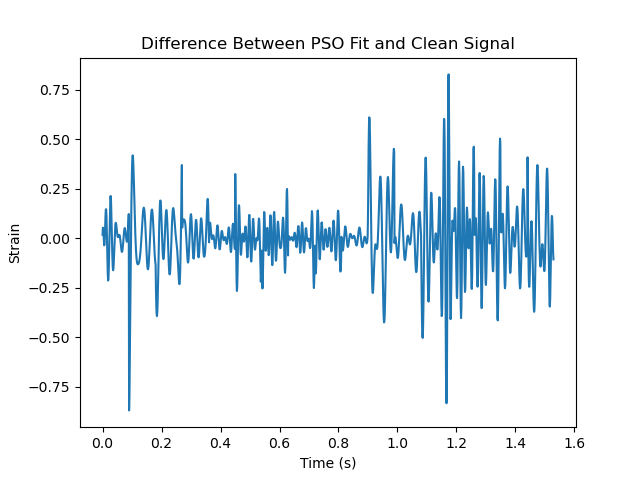
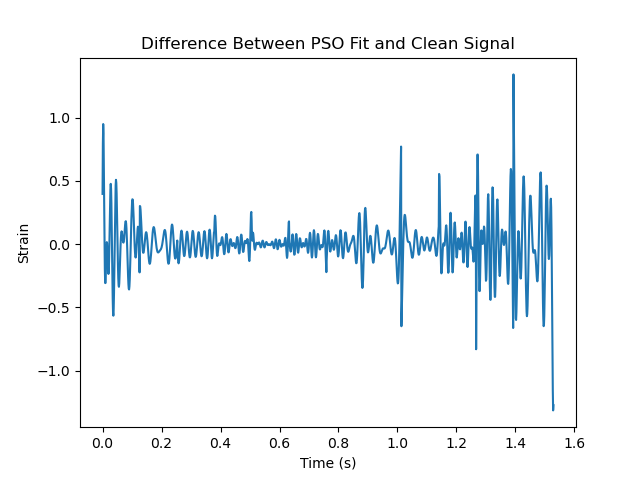
Added seed ID and more tests to diagnose last segment issues

diff --git a/pso/PSOBestFit.py b/pso/PSOBestFit.py
@@ -30,6 +30,16 @@ def leastSquaresFit(t, data, model):
         fit = fit + ls[i]
     return fit
 
+def rootCheck(t, a, b, c):
+    sqrtArg = (2*b)**2 - 4*3*a*c
+    if sqrtArg < 0:
+        return False
+    root1 = (-2*b + np.sqrt(sqrtArg)) / (2 * 3*a)
+    root2 = (-2*b - np.sqrt(sqrtArg)) / (2 * 3*a)
+    if t[0] < root1 < t[-1] or t[0] < root1 < t[-1]:
+        return True
+    return False
+
 # Simplifies polyCos fitting by substituting the to be maximized function with R
 def RSub(omegas, t, x):
     # INPUTS:
@@ -40,6 +50,11 @@ def RSub(omegas, t, x):
     # R:         Omega dependent function whose argmax is the same as least squares minimization
 
     w1, w2, w3 = omegas
+
+    isRoot = rootCheck(t, w1, w2, w3)
+
+    if isRoot:
+        return -999999
     A = sum(x*polyCos(t, 0, w1, w2, w3))
     B = -sum(x*polyCos(t, -np.pi/2, w1, w2, w3))
     R = np.sqrt(A**2+B**2)
@@ -67,7 +82,7 @@ def PSOPolyCosFit(t, x, lbounds, ubounds):
     # INPUTS:
     # t:                 1D time array with Ts spacing
     # x:                 1D array of input data
-    # lbounds, ubounds:  Bounds for omega parameters
+    # lbounds, ubounds:  Length 3 arrays of omega parameter  bounds
     # OUTPUTS:
     # w1, w2, w3, R:     Best fit omegas and minimal R
 
@@ -80,7 +95,16 @@ def PSOPolyCosFit(t, x, lbounds, ubounds):
     w1, w2, w3 = pso.gbest_x; R = -pso.gbest_y # best fit omegas and minimal R
     return w1, w2, w3, R
 
+# calculates best fit phase and amplitude given w1, w2, and w3
 def parCalc(t, x, w1, w2, w3, R):
+    # INPUTS:
+    # t:                 1D time array with Ts spacing
+    # x:                 1D array of input data
+    # w1, w2, w3, R:     Best fit omegas and minimal R
+    # OUTPUTS:
+    # a:                 Amplitude
+    # p0:                Phase
+
     N = sum(polyCos(t, 0, w1, w2, w3)**2) # variables for amplitude and phase calculation
     A = sum(x*polyCos(t, 0, w1, w2, w3))
     B = -sum(x*polyCos(t, -np.pi/2, w1, w2, w3))
@@ -88,7 +112,14 @@ def parCalc(t, x, w1, w2, w3, R):
 
     return a, p0
 
+# checks if PSO fit hit the parameter bounds and needs to be expanded
 def boundCheck(w1, w2, w3, lbounds, ubounds):
+    # INPUTS:
+    # w1, w2, w3:        Best fit omegas
+    # lbounds, ubounds:  Length 3 arrays of omega parameter  bounds
+    # OUTPUTS:
+    # lbounds, ubounds:  Length 3 arrays of omega parameter  bounds
+
     if abs(w1) == abs(lbounds[0]):
         lbounds[0] = 1.5*lbounds[0]; ubounds[0] = 1.5*ubounds[0]
     if abs(w2) == abs(lbounds[1]):
@@ -139,4 +170,21 @@ def PSOMultirun(t, data, Nseg: int, lbounds, ubounds, runs, dynBound = True):
     tfit = leastSquaresFit(t, data, model)
     return model, tfit, isBadFit
 
+def PSOMR(tseg, xseg, runs, lbounds, ubounds, thresh = 0.1, dynBound = True):
+    isBadFit = True; bestFit = 0
+    for i in range(runs):
+        if i==0 or isBadFit:
+            w1, w2, w3, R = PSOPolyCosFit(tseg, xseg, lbounds, ubounds) # fits data to polyCos using PSO
+            a, p0 = parCalc(tseg, xseg, w1, w2, w3, R) # calculates min amplitude and phase based on omegas
 
+            if dynBound:
+                lbounds, ubounds = boundCheck(w1, w2, w3, lbounds, ubounds)
+
+            runSeg = a*polyCos(tseg, p0, w1, w2, w3) # generates model signal given previously calculated parameters
+            segFit = leastSquaresFit(tseg, xseg, runSeg) # finds the fit of that model against original data
+
+            if i==0 or segFit<bestFit:
+                bestFit = segFit
+                if segFit/len(runSeg) < thresh:
+                    isBadFit = False
+    return runSeg, isBadFit

diff --git a/pso/tests/seglen/segLenTrials.py b/pso/tests/seglen/segLenTrials.py
@@ -1,0 +1,86 @@
+import sys
+from pathlib import Path
+sys.path.append(str(Path(__file__).parent.parent.parent.parent))
+sys.path.append(str(Path(__file__).parent.parent.parent))
+from dsignal import freqGen as fg, sigGen as sg, sigAnalysis as sa
+import numpy as np
+import psoBestFit as pbf
+import matplotlib.pyplot as plt
+import time
+
+def genWL(f0, band, M, Ts, A):
+    freqKnots = fg.genKnot(M, f0, band) # knots for freq spline
+    t, freqs = fg.genBSpline(freqKnots, Ts) # generates time and freq spline arrays
+    cleanSig, distSig = sg.genSignal(t, freqs, A, Ts) # generates signal with smoothly varying frequency and iid noise
+
+    return t, cleanSig, distSig, freqs, freqKnots
+
+
+def PSOSegment(t, x, lbounds, ubounds, dynBound = True):
+    w1, w2, w3, R = pbf.PSOPolyCosFit(t, x, lbounds, ubounds) # fits data to polyCos using PSO
+    a, p0 = pbf.parCalc(t, x, w1, w2, w3, R) # calculates min amplitude and phase based on omegas
+
+    if dynBound:
+        lbounds, ubounds = pbf.boundCheck(w1, w2, w3, lbounds, ubounds)
+
+    runSeg = a*pbf.polyCos(t, p0, w1, w2, w3) # generates model signal given previously calculated parameters
+    segFit = pbf.leastSquaresFit(t, x, runSeg) # finds the fit of that model against original data
+    return runSeg, segFit, lbounds, ubounds
+
+def PSOMultiRun(t, data, lbounds, ubounds, runs):
+    bestFit = 0
+    for j in range(runs):
+        runSeg, segFit, lbounds, ubounds = PSOSegment(t, data, lbounds, ubounds)
+
+        if j==0 or segFit<bestFit:
+            bestFit = segFit
+    return bestFit
+
+def PSOMultLen(t, data, lbounds, ubounds, runs: int, tsegs):
+
+    start = time.perf_counter()
+    segTimes = np.zeros(len(tsegs)-1)
+    lsf = np.zeros(len(tsegs)-1)
+
+    for i in range(len(tsegs)-1):
+        segstart = time.perf_counter()
+        lt = np.where(t > tsegs[i])[0][0]; ut = np.where(t > tsegs[i+1])[0][0]
+        tseg = t[lt:ut]; xseg = data[lt:ut]
+
+        lsf[i] = PSOMultiRun(tseg, xseg, lbounds, ubounds, runs)
+
+        segend = time.perf_counter()
+        segTimes[i] = segend - segstart
+        segstart = segend
+
+    return lsf, segTimes
+
+f0 = 60; band = 30; A = 2; M = 100
+fmax = f0 + band; Ts = 1/(10*fmax)
+
+runs = 20; trials = 15
+
+tsegs = np.arange(0, 1.2, 0.1)
+newTS = np.zeros(shape=(trials, len(tsegs)-1))
+for i in range(trials):
+    newTS[i, :] = tsegs[1:]
+
+lsf = np.zeros(shape=(trials, len(tsegs)-1))
+segTimes = np.zeros(shape=(trials, len(tsegs)-1))
+t, cleanSig, distSig, freqs, freqKnots = genWL(f0, band, M, Ts, A)
+
+filename = 'ML_alltime'
+dir = 'pso\\tests\\seglen\\saved\\' + filename + '.png'
+sa.plotAllTime(t, cleanSig, distSig, freqs, freqKnots, Ts, fmax, dir)
+
+for i in range(trials):
+    print('Running trial' + str(i))
+    tsegs = tsegs + 0.9
+    flim = sa.FFTPeaks(t, cleanSig, Ts)[-1]
+    lbounds = [-flim, -flim, -flim]; ubounds = [flim, flim, flim]
+
+    lsf[i, :], segTimes[i, :] = PSOMultLen(t, cleanSig, lbounds, ubounds, runs, tsegs)
+
+filename = 'ML_data'
+dir = 'pso\\tests\\seglen\\saved\\' + filename + '.npy'
+np.save(dir, [newTS, lsf, segTimes])

diff --git a/pso/tests/lowfreq/lowFreq.py b/pso/tests/lowfreq/lowFreq.py
@@ -1,17 +1,20 @@
+import sys
+from pathlib import Path
+sys.path.append(str(Path(__file__).parent.parent.parent.parent))
+sys.path.append(str(Path(__file__).parent.parent.parent))
 from dsignal import freqGen as fg, sigGen as sg, sigAnalysis as sa
 import numpy as np
 from pso import psoBestFit as pbf, psoAnalysis as pa
 import random
 import matplotlib.pyplot as plt
 import os
-import sys
 
 seed = random.randrange(sys.maxsize); random.seed(seed)
-dir = 'saved\\' + str(seed)
+dir = 'pso\\tests\\lowfreq\\saved\\' + str(seed)
 if not os.path.exists(dir):
     os.makedirs(dir)
 
-f0 = 60; band = 30; fmax = f0 + band; Ts = 1/(10*fmax)
+f0 = 10; band = 7; fmax = f0 + band; Ts = 1/(10*fmax)
 t, cleanSig, distSig, freqs, freqKnots = sg.genWL(f0, band, 2, Ts)
 sa.plotAllTime(t, cleanSig, distSig, freqs, freqKnots, Ts, fmax, dir + '\\wl_time_plots_' + str(seed) + '.png')
 

diff --git a/pso/tests/perbreak/perBreak.py b/pso/tests/perbreak/perBreak.py
@@ -27,6 +27,6 @@ lbounds = [-flim, -flim, -flim]; ubounds = [flim, flim, flim]
 Nseg = 24; runs = 20
 model, lsf, isBadFit = pbf.PSOMultirun(t, cleanSig, Nseg, lbounds, ubounds, runs)
 
-pa.plotPSOFit(t, cleanSig, model, isBadFit, 'pso\\tests\\perbreak\\saved\\perb_pso_fit_.png')
-pa.modelDif(t, cleanSig, model, 'pso\\tests\\perbreak\\saved\\perb_dif.png')
-sa.plotSpectComp(t, model, freqs, Ts, fmax, 'PSO Fit Spectrogram and Clean Input Frequency Spline', 'pso\\tests\\perbreak\\saved\\perb_spectC_.png')
+pa.plotPSOFit(t, cleanSig, model, isBadFit, 'pso\\tests\\perbreak\\saved\\perb_pso_fit_24.png')
+pa.modelDif(t, cleanSig, model, 'pso\\tests\\perbreak\\saved\\perb_dif_24.png')
+sa.plotSpectComp(t, model, freqs, Ts, fmax, 'PSO Fit Spectrogram and Clean Input Frequency Spline', 'pso\\tests\\perbreak\\saved\\perb_spectC_24.png')

diff --git a/pso/tests/seglen/segLenAnalysis.py b/pso/tests/seglen/segLenAnalysis.py
@@ -1,0 +1,27 @@
+import numpy as np
+import matplotlib.pyplot as plt
+
+filename = 'ML_data'
+dir = 'pso\\tests\\seglen\\saved\\' + filename + '.npy'
+newTS, lsf, segTimes = np.load(dir)
+
+trials = len(newTS[:, 0])
+
+OPS = np.zeros(trials)
+for i in range(trials):
+    OPS = newTS[i, :]*60
+
+for i in range(trials):
+    plt.plot(OPS, lsf[i, :])
+plt.title('Segment Length LSF')
+filename = 'ML_lsf'
+dir = 'pso\\tests\\seglen\\saved\\' + filename + '.png'
+plt.savefig(dir)
+plt.close()
+
+for i in range(trials):
+    plt.plot(OPS, segTimes[i, :])
+filename = 'ML_times'
+dir = 'pso\\tests\\seglen\\saved\\' + filename + '.png'
+plt.savefig(dir)
+plt.close()

diff --git a/test.py b/test.py
@@ -1,7 +1,8 @@
-import random
+a = 3
 
-is1 = [True, False, True]
-is2 = [True, True, True]
+def myFunc(a):
+    if a==2:
+        return True
+    return False
 
-print(is1 == [True for i in range(3)])
-print(is2 == [True for i in range(3)])
+print(myFunc(a))
